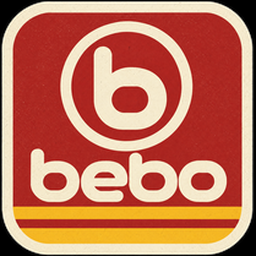
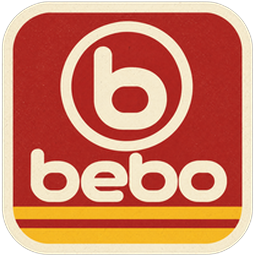
Replace black-edged stickers with transparent v3 set
Equal outer footprint, no black letterbox; HTML points at
*-v3.png to bust the v2 cache.

diff --git a/index.html b/index.html
@@ -273,14 +273,14 @@
                   >
                     <img
                       class="throwback__img throwback__img--dark"
-                      src="/social/myspace-dark-v2.png"
+                      src="/social/myspace-dark-v3.png"
                       width="256"
                       height="256"
                       alt="MySpace — Harry Mowtown on Apple Music"
                     />
                     <img
                       class="throwback__img throwback__img--light"
-                      src="/social/myspace-light-v2.png"
+                      src="/social/myspace-light-v3.png"
                       width="256"
                       height="256"
                       alt="MySpace — Harry Mowtown on Apple Music"
@@ -296,14 +296,14 @@
                   >
                     <img
                       class="throwback__img throwback__img--dark"
-                      src="/social/tumblr-dark-v2.png"
+                      src="/social/tumblr-dark-v3.png"
                       width="256"
                       height="256"
                       alt="Tumblr — Substack"
                     />
                     <img
                       class="throwback__img throwback__img--light"
-                      src="/social/tumblr-light-v2.png"
+                      src="/social/tumblr-light-v3.png"
                       width="256"
                       height="256"
                       alt="Tumblr — Substack"
@@ -319,14 +319,14 @@
                   >
                     <img
                       class="throwback__img throwback__img--dark"
-                      src="/social/bebo-dark-v2.png"
+                      src="/social/bebo-dark-v3.png"
                       width="256"
                       height="256"
                       alt="Bebo — LinkedIn"
                     />
                     <img
                       class="throwback__img throwback__img--light"
-                      src="/social/bebo-light-v2.png"
+                      src="/social/bebo-light-v3.png"
                       width="256"
                       height="256"
                       alt="Bebo — LinkedIn"
